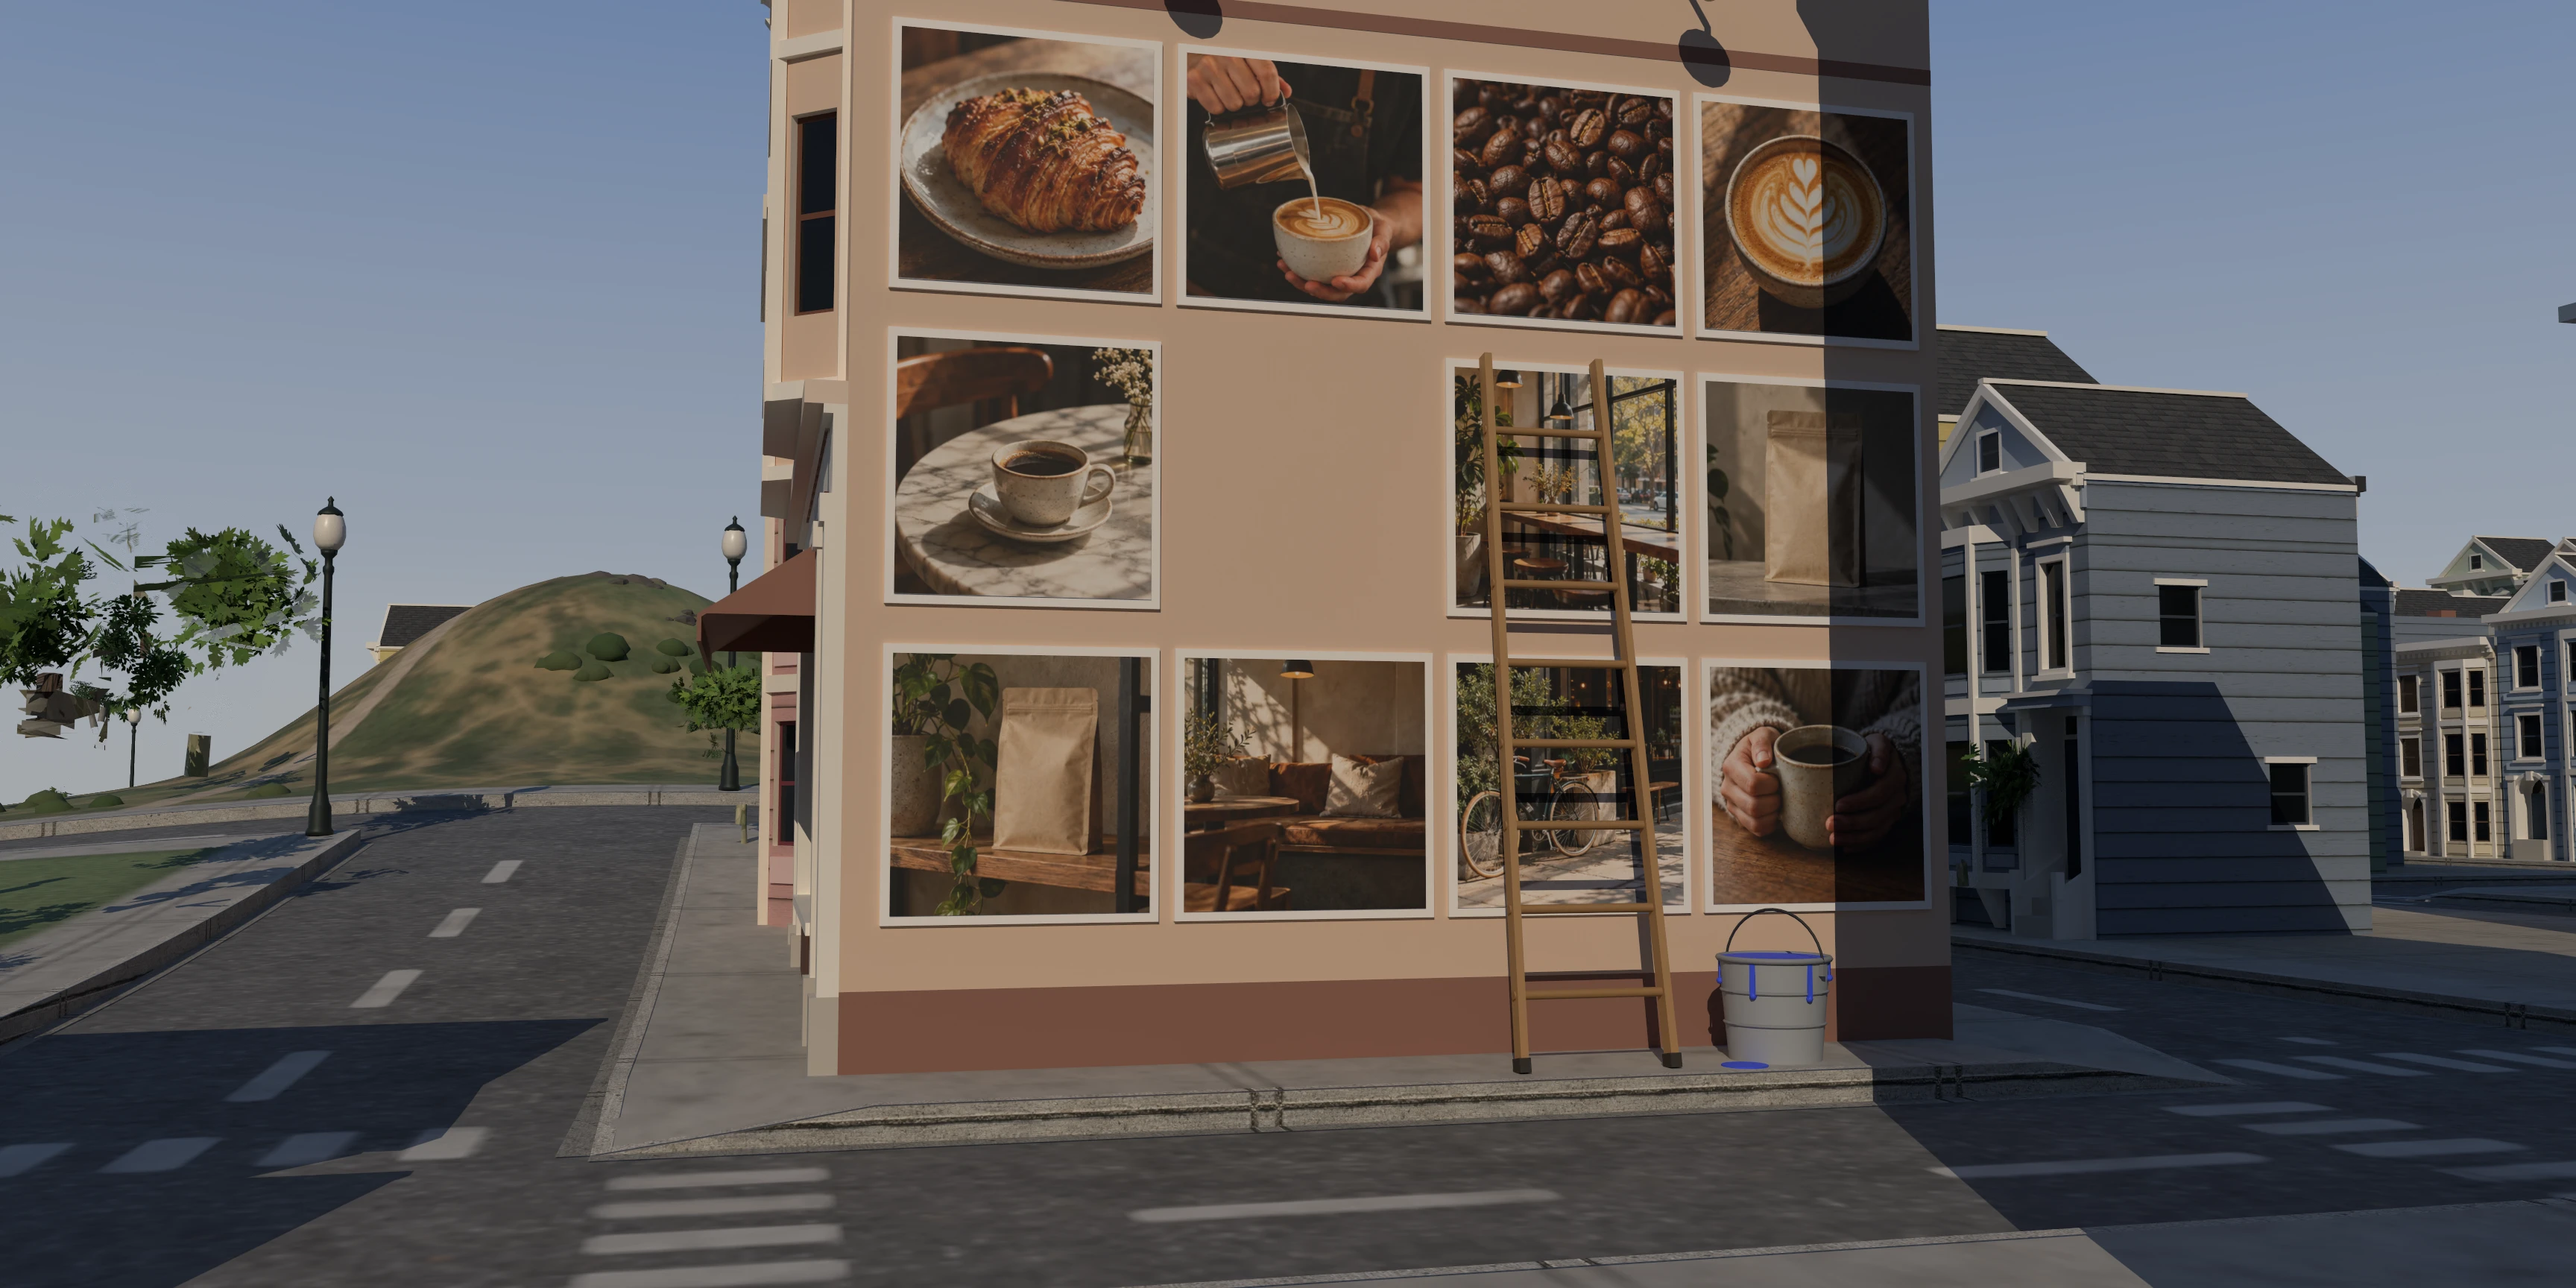
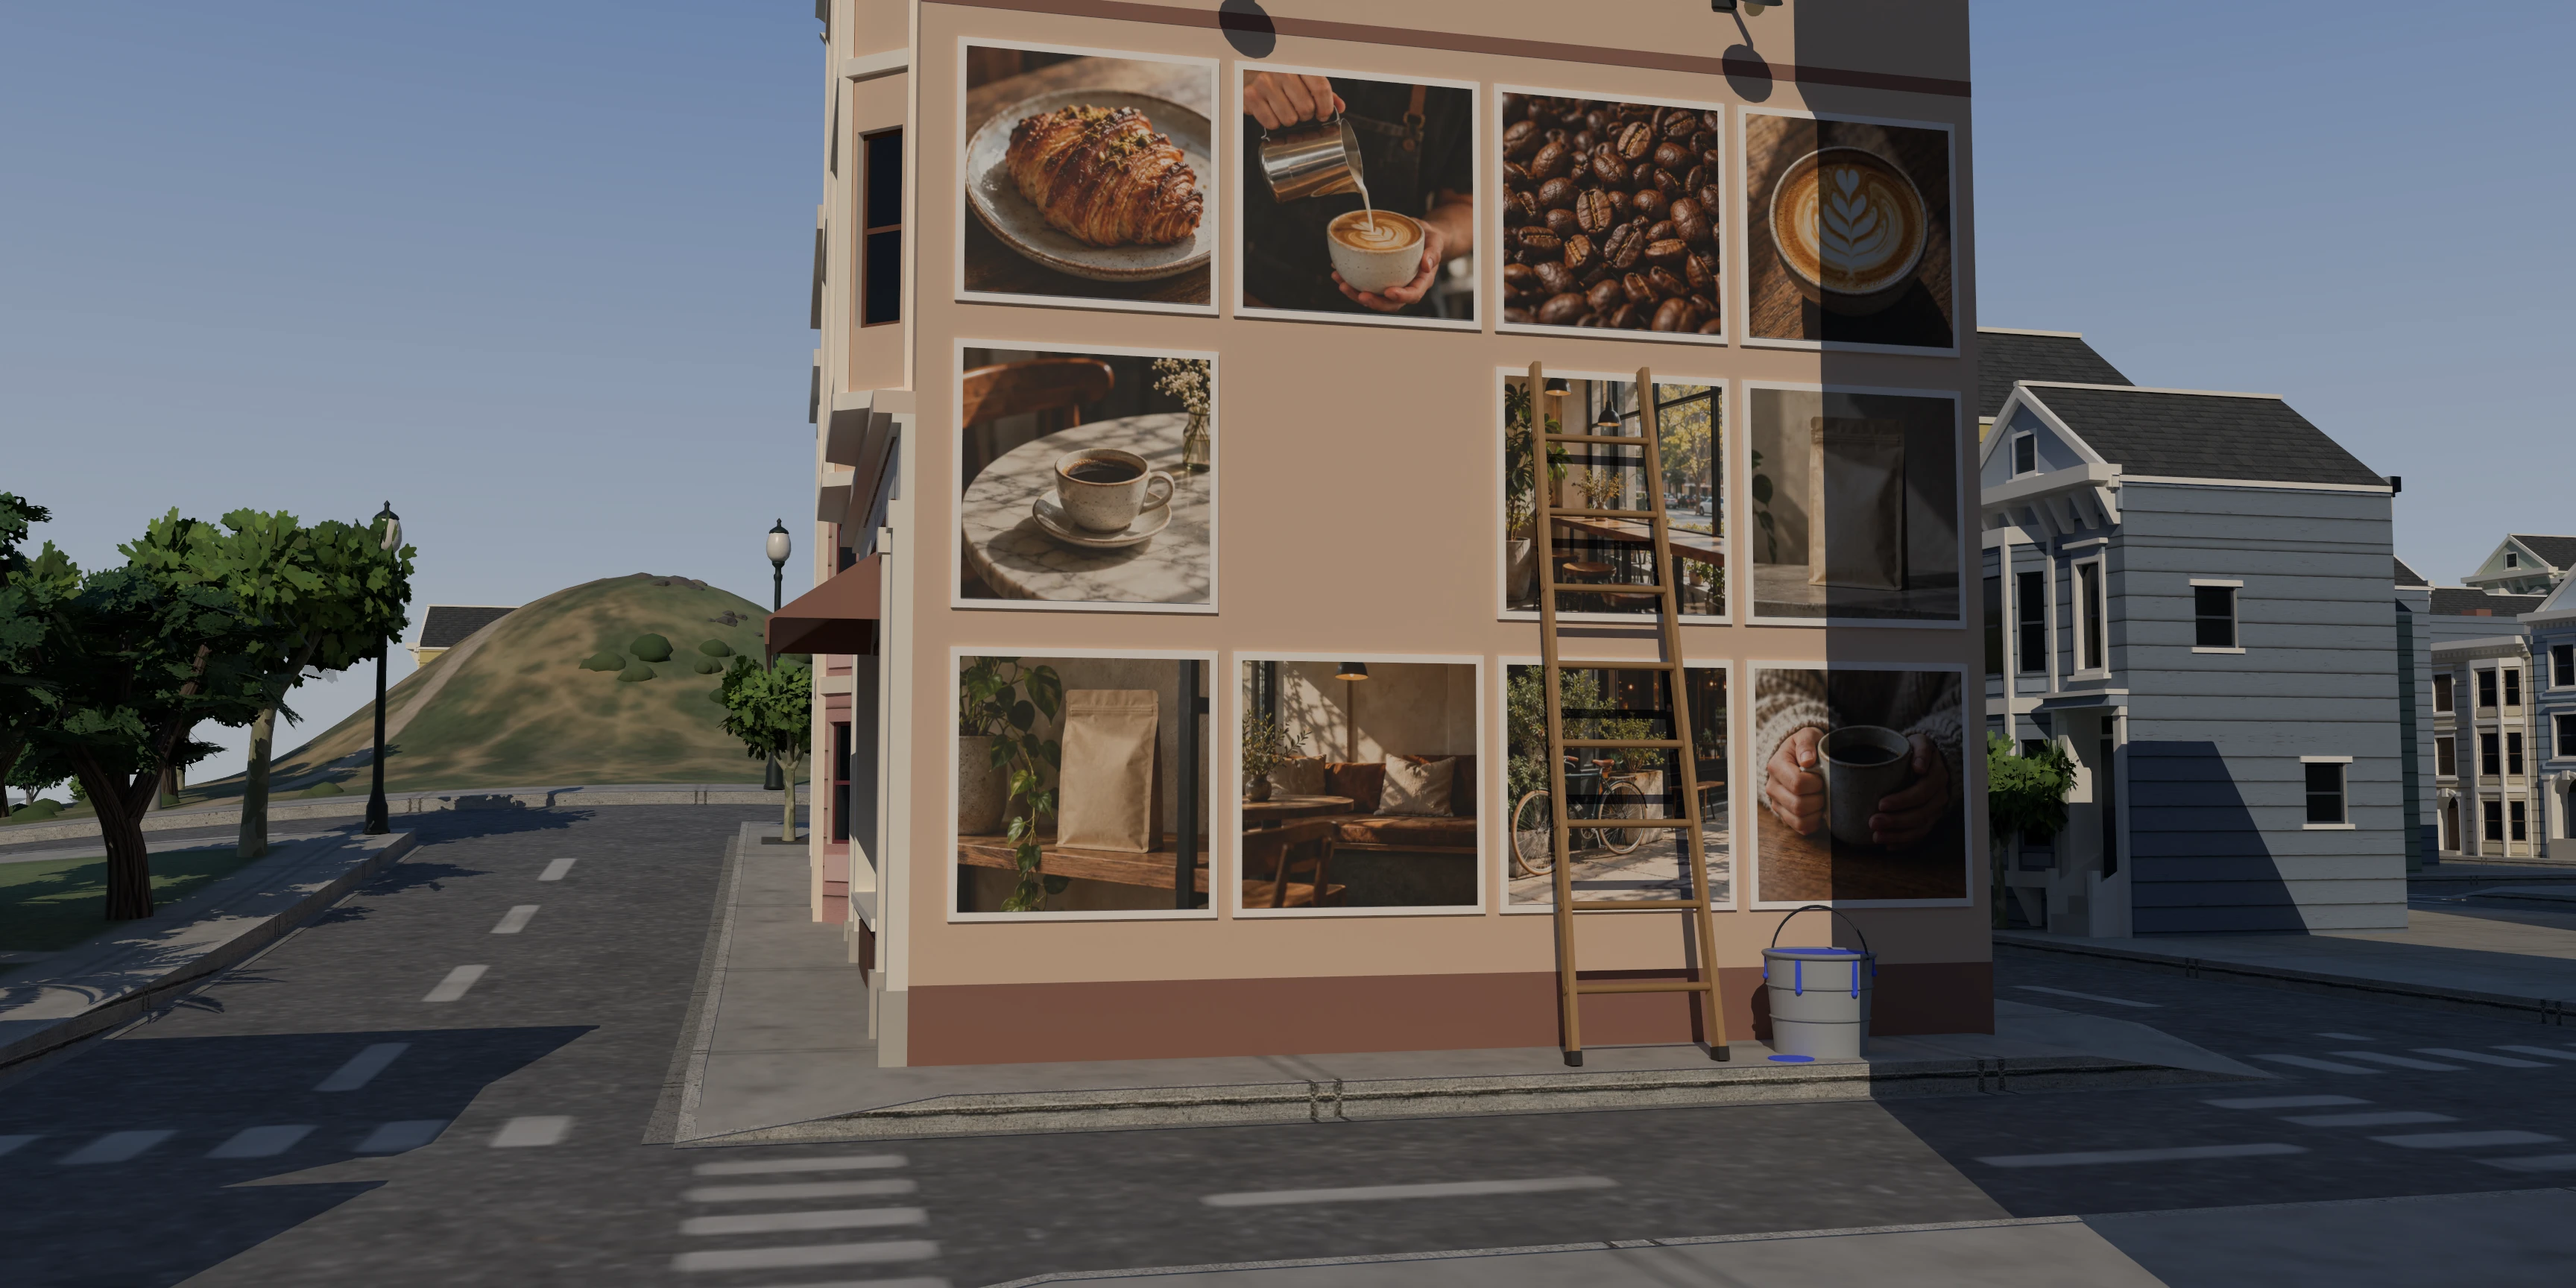
Photo-real: chapter 2 re-baked with the tree twins (full crowns)

diff --git a/docs/features/photoreal.md b/docs/features/photoreal.md
@@ -30,7 +30,7 @@ All eight chapters ship. Reviewed against today's frame:
 | --- | --- | --- |
 | 0 (06:00 rooftop, Golden Gate) | ships | |
 | 1 (07:00 shop) | ships | |
-| 2 (09:00 Mission mural) | ships | trees a little thinner than today (baked before the tree twins) |
+| 2 (09:00 Mission mural) | ships | |
 | 3 (12:00 Union Square) | ships | re-baked: the smoother camera rests 1.2 m from where the old one did |
 | 4 (15:00 Pyramid) | ships | roofs read lighter than today (the tracer's sun on up-facing faces) |
 | 5 (18:00 Ferry Building) | ships | lit windows a little paler than today's amber |
